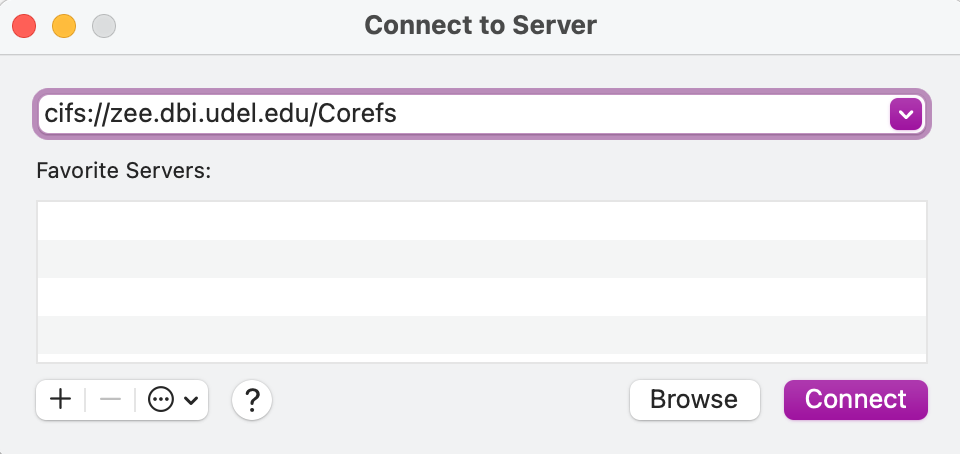
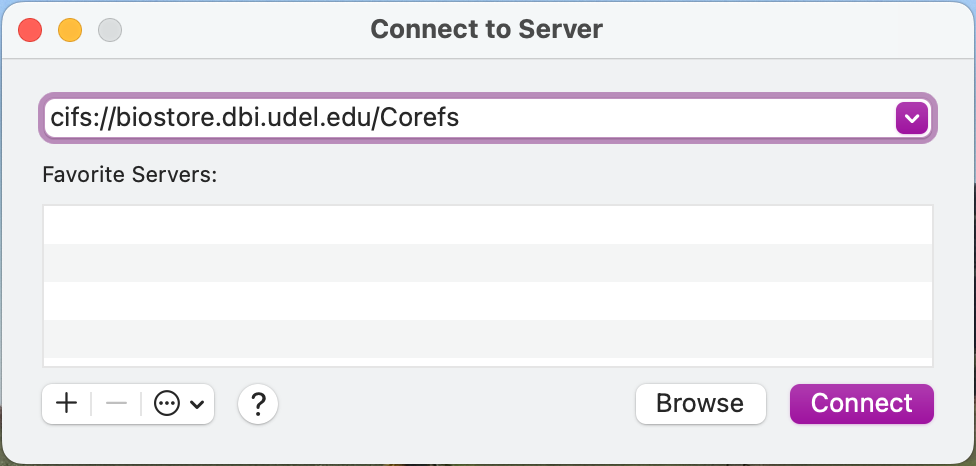
Replace zee with biostore

diff --git a/_docs_src/src/windows_connect.md b/_docs_src/src/windows_connect.md
@@ -12,15 +12,15 @@ You will be using a file sharing protocol called SMB (Server Message Block) to c
 
 <img src="https://udel-cbcb.github.io/biostore_docs/img/open_dropdown_menu.png" alt="Go to Map Network Drive" width="800" />
 
-4\. A dialogue box will appear and ask you "What network folder would you like to map?". Here you select the letter of the drive you want to map to. This can be any letter that is not in use. I chose 'Z:' as the server name for BioStore is 'zee.dbi.udel.edu'. 
+4\. A dialogue box will appear and ask you "What network folder would you like to map?". Here you select the letter of the drive you want to map to. This can be any letter that is not in use. I chose 'Z:' as the server name for BioStore is 'biostore.dbi.udel.edu'. 
 
 <img src="https://udel-cbcb.github.io/biostore_docs/img/map_network_drive.png" alt="Map Network Drive" width="500" />
 
-5\. In the same dialogue box, you need to add the server and fileshare name to the "Folder:" text box in the format '\\server\share\. The server is '\\zee.dbi.udel.edu\' and the fileshare will be the name of your group (most commonly, the last name of the PI). You will only have access to groups that you are a part of. Hit "Finish".
+5\. In the same dialogue box, you need to add the server and fileshare name to the "Folder:" text box in the format '\\server\share\. The server is '\\biostore.dbi.udel.edu\' and the fileshare will be the name of your group (most commonly, the last name of the PI). You will only have access to groups that you are a part of. Hit "Finish".
 
 <img src="https://udel-cbcb.github.io/biostore_docs/img/add_server_and_share_name.png" alt="Add Server and Share Name" width="500" />
 
-5\. Finally, enter your username and password into the new dialogue box that appears. Your username will be `name@ZEEISILON`, where `name` is the beginning of your udel email (the part before @udel.edu).  Your password should have been set up in previous steps.  After entering your username and password, hit "Connect."
+5\. Finally, enter your username and password into the new dialogue box that appears. Your username will be the beginning of your udel email (the part before @udel.edu).  Your password should have been set up in previous steps.  After entering your username and password, hit "Connect."
 
 <img src="https://udel-cbcb.github.io/biostore_docs/img/username_and_password_windows.png" alt="Username and password" width="400" />
 
@@ -28,7 +28,7 @@ You will be using a file sharing protocol called SMB (Server Message Block) to c
 
 <img src="https://udel-cbcb.github.io/biostore_docs/img/biostore_in_windows_explorer.png" alt="BioStore in Windows Explorer" width="800" />
 
-7\. If you want to use BioStore from Windows Powershell command prompt, right click on the mapped drive (will look something like "Groupname (||zee.dbi.udel.edu) (Z:)") in the left navigation pane and then "Open in Terminal". Note: If you are on Windows 11, you may need to choose "Show more options" before being able to see the "Open in Terminal" option. 
+7\. If you want to use BioStore from Windows Powershell command prompt, right click on the mapped drive (will look something like "Groupname (||biostore.dbi.udel.edu) (Z:)") in the left navigation pane and then "Open in Terminal". Note: If you are on Windows 11, you may need to choose "Show more options" before being able to see the "Open in Terminal" option. 
 
 <img src="https://udel-cbcb.github.io/biostore_docs/img/biostore_in_windows_powershell.png" alt="BioStore in Windows Powershell" width="800" />
 

diff --git a/_docs_src/src/mac_connect.md b/_docs_src/src/mac_connect.md
@@ -8,7 +8,7 @@ You will be using a file sharing protocol called CIFS (Common Internet File Syst
 
 <img src="https://udel-cbcb.github.io/biostore_docs/img/finder_go_dropdown.png" alt="Go menu selection" width="400" />
 
-3\. In the dropdown box at the top, enter `cifs://zee.dbi.udel.edu/` and hit "Connect."
+3\. In the dropdown box at the top, enter `cifs://biostore.dbi.udel.edu/` and hit "Connect."
 
 <img src="https://udel-cbcb.github.io/biostore_docs/img/connect_to_server.png" alt="Connect to server" width="500" />
 
@@ -20,7 +20,7 @@ As an alternative, you can compress steps 3 and 4 into a single step by includin
 
 <img src="https://udel-cbcb.github.io/biostore_docs/img/connect_to_server_corefs.png" alt="Connect to server without selecting volume" width="500" />
 
-5\. Finally, enter your username and password into the new dialogue box that appears.  Make sure that the option "Registered User" is selected, and then enter your username and password.  Your username will be `name@ZEEISILON`, where `name` is the beginning of your udel email (the part before @udel.edu).  Your password should have been set up in previous steps.  After entering your username and password, hit "Connect."  A progress bar will appear.
+5\. Finally, enter your username and password into the new dialogue box that appears.  Make sure that the option "Registered User" is selected, and then enter your username and password.  Your username will be `name@biostore.isilon`, where `name` is the beginning of your udel email (the part before @udel.edu).  Your password should have been set up in previous steps.  After entering your username and password, hit "Connect."  A progress bar will appear.
 
 <img src="https://udel-cbcb.github.io/biostore_docs/img/username_and_password_mac.png" alt="Enter username and password" width="500" />
 
@@ -28,4 +28,6 @@ As an alternative, you can compress steps 3 and 4 into a single step by includin
 
 <img src="https://udel-cbcb.github.io/biostore_docs/img/biostore_from_finder.png" alt="Biostore in Finder" width="700" />
 
-You will now be able to use BioStore from either your file browser window or the command line.  When you are done using BioStore, you can disconnect from the server using the "Disconnect" button.  
+You will now be able to use BioStore from either your file browser window or the command line.  To access BioStore from the command line, you will need to access `/Volumes`.
+
+When you are done using BioStore, you can disconnect from the server using the "Disconnect" button.  
